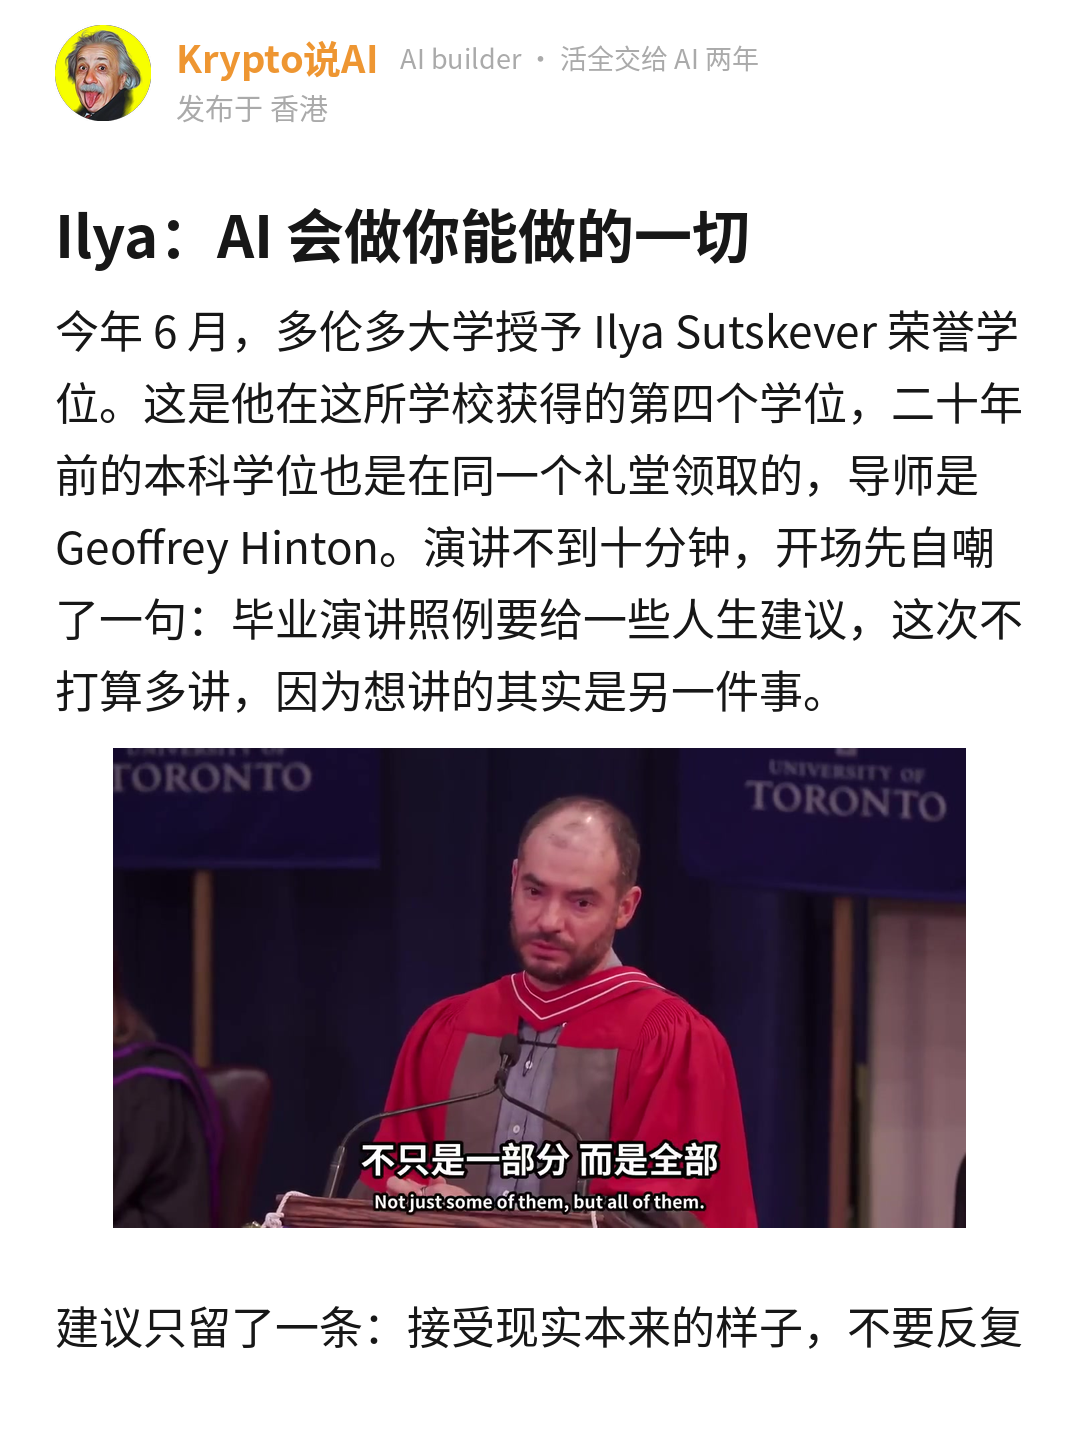
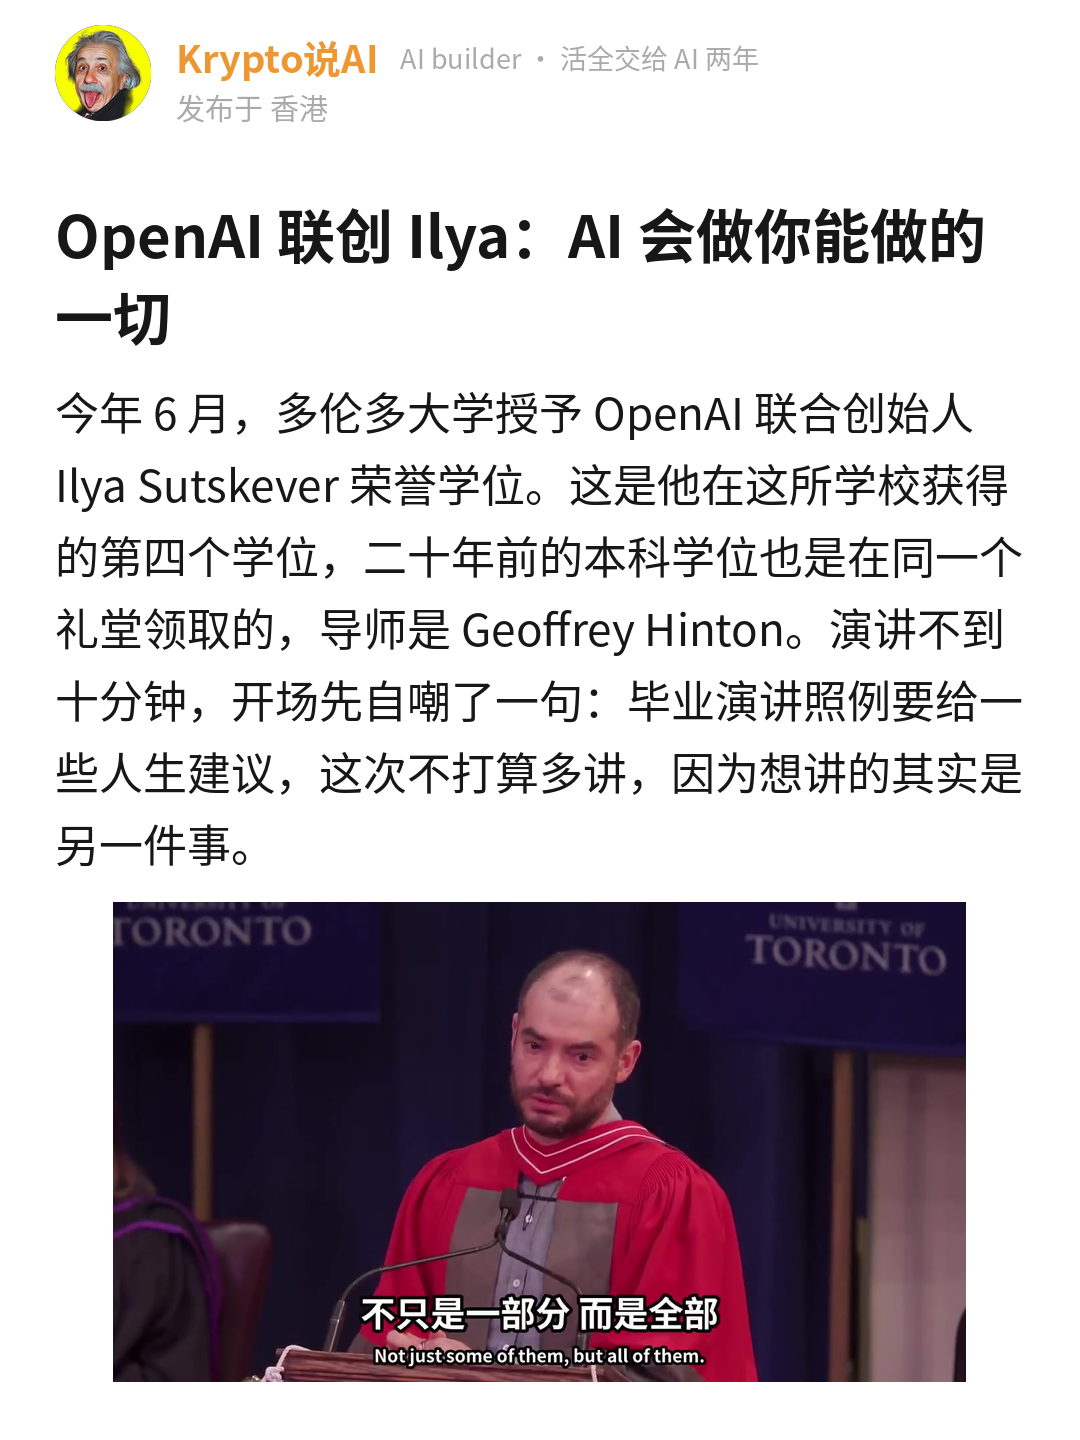
Ilya 稿标题带头衔（OpenAI联创）；v2 指南 §8 加人物稿标题带头衔
Claude-Session: https://claude.ai/code/session_017tvE9f3JBJNdHBN9dZEhix

diff --git a/CLAUDE.md b/CLAUDE.md
@@ -3,7 +3,7 @@
 这个仓库是小红书账号 **Krypto说AI** 的工作区，也是它的记忆。在这里做的每一篇稿子，先读本页，再读 `账号/档案.md`、`账号/经历库.md` 和 `账号/爆文方法论.md`（10-14 起，选题 / 标题 / 首图 / 原文跟发的发前清单，交付时逐条写过没过）。每次用户说了新的经历、新的观点、新的规则，写回这两份文件并更新本页摘要，不要只留在对话里。
 
 ## 摘要
-- **10-21 Ilya 多伦多演讲稿（meme-v2 第 2 篇，观察，value 行动，立场 B，`发布/2026-10-21_ilya-uoft-speech/meme-v2版/`，8 页）**：素材是用户发来的两段视频（@XAngus 字幕版，Ilya 2025-06-06 多伦多大学荣誉学位演讲，各 4 分 51 秒）。云端拿不到 Whisper 模型（HF 被代理拦，镜像也 403），改用 rapidocr 读烧录字幕：part1 逐秒 OCR（291 帧跑了 10 分钟，用户说「不用跑每一帧」），part2 改用 ffmpeg 场景切换只抽字幕变化帧（103 帧）。逐字稿在 `编辑用/source.md`，十张截图在 `编辑用/shots/`（都带人脸 + 关键字幕）。用户没走先问（「即可」），默认：stance「对 AI 的直觉买不来也读不来，只能拿自己的一件活去换」（B），「我」用 #18 #9 #19，代价是 #9 Codex 定时 sites（代价列已填），回指 10-18 Anthropic 就业稿。标题「Ilya毕业演讲：AI会做你能做的一切」，备选「强烈建议看看Ilya这场毕业演讲。」「Ilya说的，很多人只听了前半句。」。check.py 0 ✗；修了 check.py 两处（刚好正则的或运算没加括号、回指正则漏「那篇时我提过」）。以后视频素材没字幕走 OCR 时，直接用场景切换抽帧，不逐秒。**用户看稿后退两处**：「他」太频繁（21 个，每千字 18）、五句字幕翻译腔（「这话常有人说，这次是真的」「他只给一点」「还得追赶」「他引了一句话」「直觉会越来越强」）。改后「他」5 个；v2 指南 §5 加两条换性质的规则：转述主语轮着来（名字 / 省略 / 内容当主语 / 原话，「他」每千字 ≤8，check.py ⚠）、字幕和转录来的句子不照字面转述。改前存 `draft_v1_他太多.md`。**三退（用户定 v2 用词口径）**：划「有人说三年就到」「拿自己的活去换」「我自己量出来的」「有没有长出来」「那该怎么办？他借了……」，原话「动词用『到』这种单字，名词用『活』，一看就是 AI 写的，要让读者感觉是一个科技 AI 栏目的主编这种内容工作者写的文字」。整篇按主编口径重写（改前存 `draft_v2_口语单字.md`）：双字谓语、「活」换成工作 / 任务、不自问自答、不用「直觉长出来」这类自造口语比喻；v2 指南 §5 加这条，check.py 加「活」≥2 和「去 / 就 / 才 + 单字动词收尾」⚠。小盖式「像跟朋友聊」的口吻在 v2 里让位给主编口径。**用户定「记进 v2，不能再犯」**：主编口径写进 `skills/meme-v2/SKILL.md` 一句话原则下，「改这份 skill 之前先读」加第 4 道门「口语不等于真人感」，不往 v2 加任何口语 / 毛边类要求
+- **10-21 Ilya 多伦多演讲稿（meme-v2 第 2 篇，观察，value 行动，立场 B，`发布/2026-10-21_ilya-uoft-speech/meme-v2版/`，8 页）**：素材是用户发来的两段视频（@XAngus 字幕版，Ilya 2025-06-06 多伦多大学荣誉学位演讲，各 4 分 51 秒）。云端拿不到 Whisper 模型（HF 被代理拦，镜像也 403），改用 rapidocr 读烧录字幕：part1 逐秒 OCR（291 帧跑了 10 分钟，用户说「不用跑每一帧」），part2 改用 ffmpeg 场景切换只抽字幕变化帧（103 帧）。逐字稿在 `编辑用/source.md`，十张截图在 `编辑用/shots/`（都带人脸 + 关键字幕）。用户没走先问（「即可」），默认：stance「对 AI 的直觉买不来也读不来，只能拿自己的一件活去换」（B），「我」用 #18 #9 #19，代价是 #9 Codex 定时 sites（代价列已填），回指 10-18 Anthropic 就业稿。标题「Ilya毕业演讲：AI会做你能做的一切」，备选「强烈建议看看Ilya这场毕业演讲。」「Ilya说的，很多人只听了前半句。」。check.py 0 ✗；修了 check.py 两处（刚好正则的或运算没加括号、回指正则漏「那篇时我提过」）。以后视频素材没字幕走 OCR 时，直接用场景切换抽帧，不逐秒。**用户看稿后退两处**：「他」太频繁（21 个，每千字 18）、五句字幕翻译腔（「这话常有人说，这次是真的」「他只给一点」「还得追赶」「他引了一句话」「直觉会越来越强」）。改后「他」5 个；v2 指南 §5 加两条换性质的规则：转述主语轮着来（名字 / 省略 / 内容当主语 / 原话，「他」每千字 ≤8，check.py ⚠）、字幕和转录来的句子不照字面转述。改前存 `draft_v1_他太多.md`。**三退（用户定 v2 用词口径）**：划「有人说三年就到」「拿自己的活去换」「我自己量出来的」「有没有长出来」「那该怎么办？他借了……」，原话「动词用『到』这种单字，名词用『活』，一看就是 AI 写的，要让读者感觉是一个科技 AI 栏目的主编这种内容工作者写的文字」。整篇按主编口径重写（改前存 `draft_v2_口语单字.md`）：双字谓语、「活」换成工作 / 任务、不自问自答、不用「直觉长出来」这类自造口语比喻；v2 指南 §5 加这条，check.py 加「活」≥2 和「去 / 就 / 才 + 单字动词收尾」⚠。小盖式「像跟朋友聊」的口吻在 v2 里让位给主编口径。**用户定「记进 v2，不能再犯」**：主编口径写进 `skills/meme-v2/SKILL.md` 一句话原则下，「改这份 skill 之前先读」加第 4 道门「口语不等于真人感」，不往 v2 加任何口语 / 毛边类要求。**用户看主编口径版：「内容有改进了」，标题要带他的头衔（天然流量）**：标题改「OpenAI联创Ilya：AI会做一切」，备选「强烈推荐OpenAI联创Ilya演讲。」「OpenAI联创说的，很多人只听了前半句」，keyword 改 OpenAI；v2 指南 §8 加「人物稿标题带头衔或机构」
 - **10-21 Jack Clark 稿 v2 版（meme-v2 第 1 篇，A/B 的 B 面，`发布/2026-10-21_jack-clark-imf/meme-v2版/`，8 页）**：同一份素材，A 面是 meme版（meme-xhs 写的编号体 4 节）。用户「你定」，默认：stance「AI 越是能改专家的作业，人越得自己先算一遍」（A），reader 写成时刻「刚把数据分析交给 AI、看一眼就转发给老板的人」，cost 用 #25 看板漏 bug（代价列已填），读者直觉段「那我更没必要自己算了 → 我的体会相反」，「我」用 #8 #20 #25。评论员式连贯短文不编号，结尾落到「每周留一件活自己算」。check.py 0 ✗ 0 ⚠；写这篇时修了 check.py 三个误报（「正好」撞 AI 判成刚好式植入、Jack Clark 拆成两个专名、专名后人话的词表漏了「的」）。标题沿用用户 10-19 定的「Anthropic联创：专家竟被AI纠错」，备选加「强烈建议看看Anthropic这场讲座。」「Anthropic联创说的，我信一半。」。**第一版被用户退回**（「断句很奇怪，不像正常叙事顺序」，让我以 36 氪主编身份自评，答：不是正常栏目能发的）：第一句「物理学家被 AI 改对了答案」搭配怪、一句转三次；第二段逗号串四个分句主语换四次；事件切两半夹履历；前四段叠了四种开场（判断 / 点读者 / 读者直觉 / 我的经历），是换了槽位的凑槽位。重写成「舞台 → 事件讲完 → 我一句反应 → stance 自然带出」，改前存 `draft_v1_开场叠开场.md`。**v2 改三条（都是撤或换性质）**：开头只做一件事、「我最想说的一件事是」和「让读者对上号」从首页必放降为可选；一句话一个主语、逗号不连三个以上独立分句；check.py 加提示级「逗号 ≥4 的句子念一遍」。**二退**（用户划「我看完这段，想的不是 AI 有多厉害，是我自己有多久没回去查过它交上来的东西了」「这是我整场听下来最想说的一句」，问是哪条规则写的：小学生倒装句、观点破碎、句子都很短）：溯源是「第一句要有我的处境」+「不写我觉得」+「一句一段」叠出的倒装，和 Echo「我最想说的一件事」挪到句尾的残留，观点被拆在三处各半句。两句删掉，判断写成一段完整论证，「我」的反应并进经历段。v2 再改：撤「我只给一句反应」和 check.py「前四段没有我」⚠，加「判断只论证一次、不贴标签」（check.py ✗）。**用户定「记下来，v2 不能再犯」**：病根是用换一批槽位的方式去掉槽位，写进 `skills/meme-v2/SKILL.md`「改这份 skill 之前先读」三道门（会不会变成固定位置 / 范例句不是必放句 / 一个观点只论证一次），以后改 v2 任何一条先过这三道门。发哪版用户定
 - **10-21 用户定三件事**：① **新建 `/meme-v2`**（`skills/meme-v2/`，跟 meme-xhs 做 A/B，发哪版用户定，日志 series 标 `meme` 或 `meme-v2`，3 篇后看每千次观看涨粉再定留不留）：SKILL 86 行只有当前规则、无日期补丁（历史在 `references/changelog.md`），writing_guide 107 行按「我在场且付过代价 / 判断对世界下 / 每句写到结果才停」重写，`scripts/check.py` 16 ✗ 26 ⚠（meme_check 44 / 81），新增专名首现后 20 字内要有人话、单句段性质、stance 宾语是世界三项；出图 / 首页 / 公众号复用 meme-xhs 脚本；② **改输入现在就开始，两个 skill 都用**：写稿前先问加 ⑥ 你付过什么代价、⑦ 读者按直觉会怎么想；`账号/经历库.md` 加「代价（丢了什么）」列（现有 28 条空着，写稿时顺手补问）；`reader:` 写读者的具体时刻不写职业；v2 front matter 多一个 `cost`；③ `对标/玉伯_YouMind/` 并进 `对标/玉伯/`（原文相同，第二份拆解接在后面）
 - **10-21 对标库总索引 + 全量蒸馏 + meme-xhs 改造清单（待用户定）**：`对标/README.md`（按文体 / 题材挑先读哪篇，写稿第 0 步查它）、`对标/蒸馏_2026-10-21_对标库全量.md`（16 个对标全读完：真人感靠十个机制，核心是「我」在场且付过代价、判断对世界下、读者直觉翻过来、专名后跟半句人话、因果连接词把句子扣死；一个月改输出 20 多次 0 条被证实，改输入 2 次 2 爆款）、`复盘/2026-10-21_meme-xhs改造清单.md`（25 条：8 条撤禁过头的、6 条从数数换成看句子说没说完、6 条改输入含经历库加「代价」列、5 条脚本和 SKILL 重写成单一版本）。用户点头前 SKILL 和脚本不动

diff --git a/发布/2026-10-21_ilya-uoft-speech/meme-v2版/编辑用/draft.md b/发布/2026-10-21_ilya-uoft-speech/meme-v2版/编辑用/draft.md
@@ -1,21 +1,21 @@
 ---
-title: Ilya毕业演讲：AI会做你能做的一切
+title: OpenAI联创Ilya：AI会做一切
 genre: 观察
 value: 行动
 reader: 每天追 AI 新闻、但手上的工作一项都还没交给 AI 的人
 stance: 对 AI 的判断力买不来也读不来，只能用自己的工作去换；读十篇解读不如自己失败一次
 stance_line: B
 cost: 让 Codex 定时生成 sites，背后 MCP 查询太重，token 烧得很快，数据一多页面组装就乱（经历库 #9）
-keyword: Ilya
-keywords: OpenAI, 多伦多大学, AI取代工作
-headline: Ilya：AI 会做你能做的一切
+keyword: OpenAI
+keywords: Ilya, 多伦多大学, AI取代工作
+headline: OpenAI 联创 Ilya：AI 会做你能做的一切
 hero: shots/07_p2_68s.jpg
 hero_after: 1
 location: 香港
 account: Krypto说AI
 ---
 
-今年 6 月，多伦多大学授予 Ilya Sutskever 荣誉学位。这是他在这所学校获得的第四个学位，二十年前的本科学位也是在同一个礼堂领取的，导师是 Geoffrey Hinton。演讲不到十分钟，开场先自嘲了一句：毕业演讲照例要给一些人生建议，这次不打算多讲，因为想讲的其实是另一件事。
+今年 6 月，多伦多大学授予 OpenAI 联合创始人 Ilya Sutskever 荣誉学位。这是他在这所学校获得的第四个学位，二十年前的本科学位也是在同一个礼堂领取的，导师是 Geoffrey Hinton。演讲不到十分钟，开场先自嘲了一句：毕业演讲照例要给一些人生建议，这次不打算多讲，因为想讲的其实是另一件事。
 
 建议只留了一条：接受现实本来的样子，不要反复后悔过去，把精力放在下一步怎么走。Ilya 坦言这一条很难做到。人一遇到挫折，很容易反复回想当初哪个决定做错了、哪次运气不好、哪里不公平，一想就是大半天。更有效的做法是对自己说一句「好吧，事情已经这样了」，然后继续往前。他每次这样做，事情都会顺利一些。但他也承认，这是一场和自己情绪的长期拉锯，讲给台下的毕业生，也是讲给自己。
 

diff --git a/skills/meme-v2/references/writing_guide.md b/skills/meme-v2/references/writing_guide.md
@@ -103,7 +103,7 @@
 ## 8. 标题
 
 正文写完再起。三条备选三种句式：
-- 可搜词在前 6 字：路人认识的人名、模型 / 工具名、场景词。人名就是 keyword 时可以开头。
+- 可搜词在前 6 字：路人认识的人名、模型 / 工具名、场景词。人名就是 keyword 时可以开头。**人物稿的标题带上他的头衔或机构**（10-21 用户定，「有天然流量」）：「OpenAI联创Ilya：……」比「Ilya毕业演讲：……」多一个路人认识的名字；头衔用最短的那个（联创 / 前首席科学家 / 创始人），机构名放最前面当可搜词。
 - 社会证明要是路人认识的名字（「红杉合伙人」是职位，14.9%；用名字的 18% 到 22.5%）。原文有收藏数、浏览数可以写。
 - 至少一条「情绪 + 名字」（「强烈推荐看看Anthropic就业报告。」「想做AI产品的人，都去看Karpathy这期。」）或认知差句（「看来很多人没读懂LobsterAI报告。」）。
 - 20 字以内（英文每字母算一字）。不用感叹号、极限词、「N 条规矩教你 X」教程腔。不以非 keyword 的中文专名开头。标题里的场景正文要兑现。
